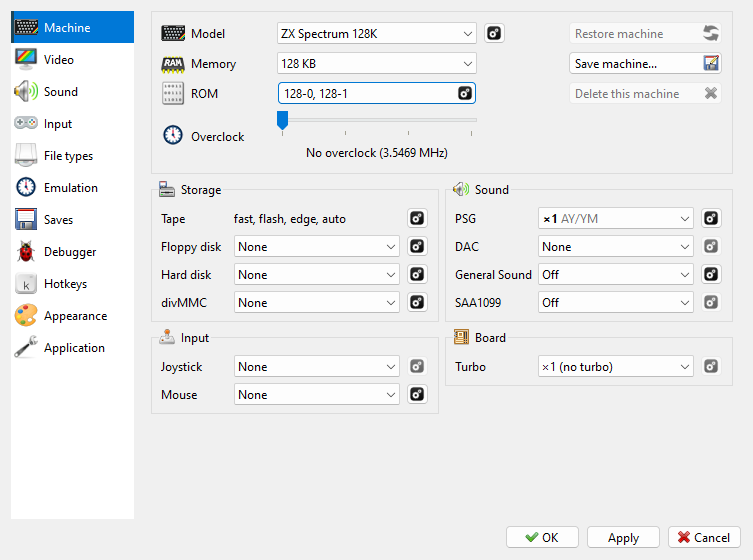
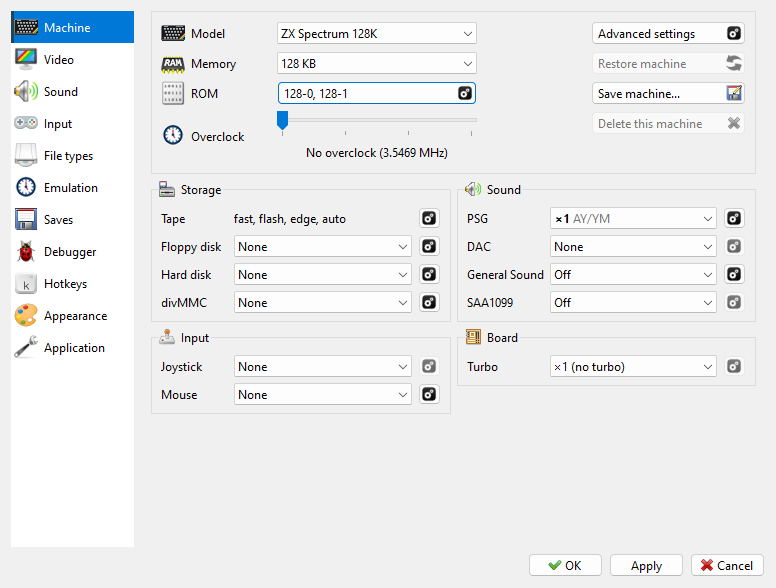
manual: Advanced settings as a button on the Machine page; when a game snows - the notice and its two buttons

diff --git a/docs/manual/options-machine.md b/docs/manual/options-machine.md
@@ -18,11 +18,12 @@ in [Your own machines](#your-own-machines).
 
 **Tools > Options...** opens **Options**; **Machine** is its first page. At the top:
 
-- **Model** - the machine. The {icon}`settings` gear beside it opens
-  **Machine: Advanced Settings**.
+- **Model** - the machine.
 - **Memory** - how much RAM the machine has.
 - **ROM** - the ROM files in use; the {icon}`settings` button opens **Machine: ROM**.
 - **Overclock** - the slider described in [Overclock](#overclock).
+- {icon}`settings` **Advanced settings** - opens **Machine: Advanced Settings** (see
+  [Advanced settings](#advanced-settings)).
 - {icon}`refresh` **Restore machine**, {icon}`save-as` **Save machine...**,
   {icon}`cancel` **Delete this machine** - see [Your own machines](#your-own-machines).
 
@@ -80,7 +81,7 @@ The values are what the machine has set now; hold the mouse over one to see what
 be. To change them, press NMI, then **Settings**, in NextZXOS: a change made there takes
 effect when the menu closes. **Next (+3)** in **Timings** is the timing NextZXOS calls
 **Next**, that of the +3. **Scanlines** and **HDMI Sound** are not listed: they are for a
-monitor, not emulated. **Machine: Advanced Settings** is all grayed out on the Next.
+monitor, not emulated. **Advanced settings** is grayed out on the Next.
 
 ## Overclock
 
@@ -101,8 +102,9 @@ guaranteed. The slider is not saved: the next start is without overclock. The
 ```{index} Machine: Advanced Settings, Base clock, Raster layout, Floating bus, Contended memory, contention, ULA snow, ULA plus
 ```
 
-**Machine: Advanced Settings** holds the settings of the hardware itself, not of how you use
-it. Leave them alone unless you know the hardware.
+{icon}`settings` **Advanced settings**, the first button in the right-hand column of the
+page, opens **Machine: Advanced Settings**. It holds the settings of the hardware itself, not
+of how you use it. Leave them alone unless you know the hardware.
 
 - **CPU** - **Base clock**, the frequency of the crystal the board runs on. The frame rate
   is derived from it too.
@@ -113,7 +115,7 @@ it. Leave them alone unless you know the hardware.
 - **Board** - **Even M1** (Scorpion ZS 256) and **DD palette** (Profi).
 
 Each one is explained beside it, or in a tooltip when you hold the mouse over it. On the
-ZX Spectrum Next they are all grayed out: the Next sets them itself (see
+ZX Spectrum Next the button is grayed out: the Next sets them itself (see
 [On the ZX Spectrum Next](#on-the-zx-spectrum-next)). What contention, snow and the floating bus are, and how they are emulated, is in
 [Contention, snow and the floating bus](ula-snow-floating-bus.md).
 

diff --git a/docs/manual/ula-snow-floating-bus.md b/docs/manual/ula-snow-floating-bus.md
@@ -59,6 +59,27 @@ as a real +2 does in its photo.
 Some 128K machines hang or reset under snow. How is not known, so **...and it crashes** is a
 model of the right shape, not of a known mechanism, and is off on every machine.
 
+### When a game snows
+
+```{index} ULA snow; notice, Switch Off for This Game
+```
+
+Snow is on for the 48K, the 128K and the +2, as on the real machines, so that a program that
+snows shows it. When a game keeps `I` in shared memory for half a second, Xpeccy+ says so: the
+picture is dimmed, snow falls over it, a snowflake blinks in the top left corner, and a
+message tells what it is. The game runs on meanwhile. The message comes once for each image -
+a tape, a side of it, a disk, a snapshot - and again when another image is opened.
+
+- **Continue** (or Esc) - the snow stays. The real machine shows it too: the game's author
+  may want to know.
+- **Switch Off for This Game** - no snow until another image is opened. Nothing is saved:
+  the machine keeps its setting.
+
+To be rid of the snow for good, choose a machine that does not snow, or switch
+**ULA snow...** off in **Machine: Advanced Settings** (see
+[Advanced settings](options-machine.md#advanced-settings)). Fast loading, fast forward,
+rewind, an RZX recording or playback and the Debugger do not raise the message.
+
 ## The floating bus
 
 ```{index} Floating bus; how it works, port #FF
